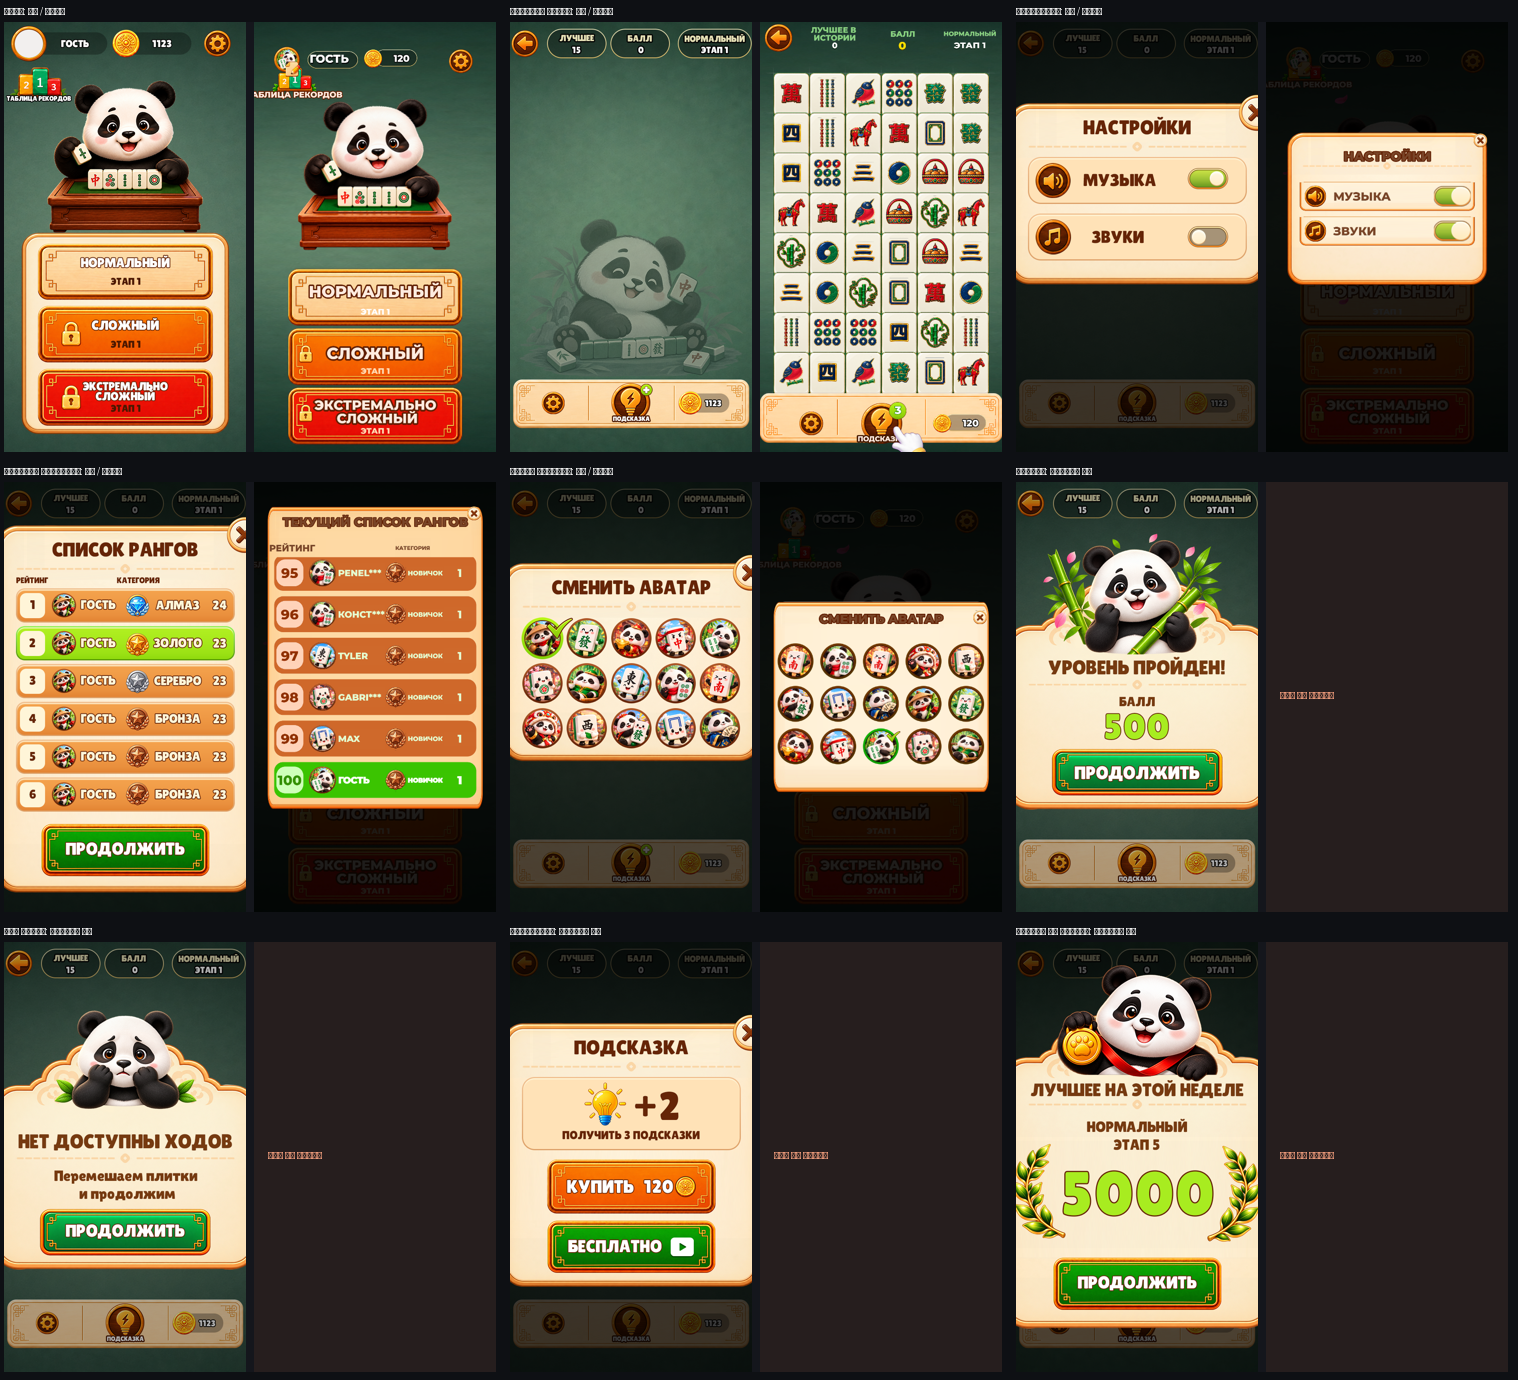
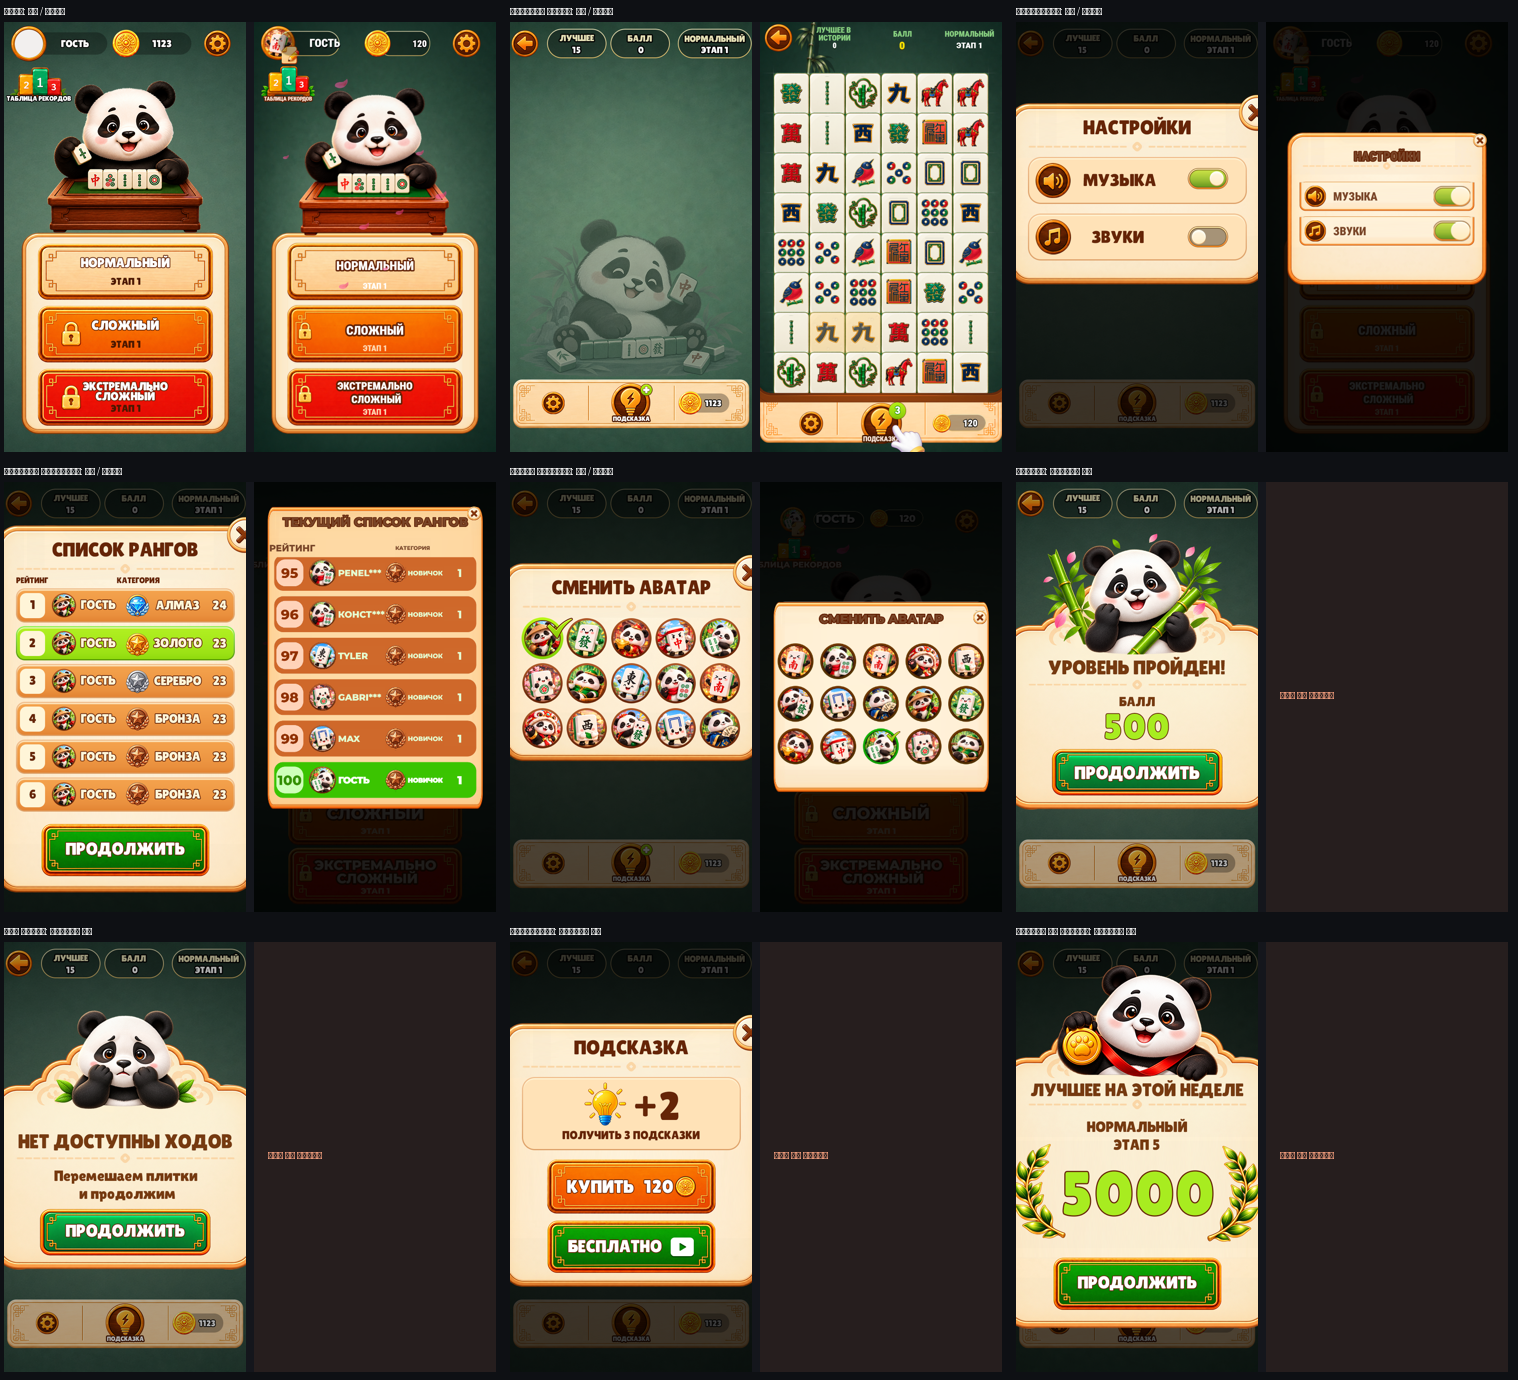
Menu matched to the mockup and verified in the running game
Chrome DevTools could not attach to the owner's browser, so the game is now
driven through a Chrome of our own (tools/shoot.py, Playwright, its own profile
and a 9:16 window so the canvas is exactly the 1080x1920 the layout is written
against). Every screenshot on the page is that browser.

The HUD row, the leaderboard icon and the three buttons were placed from
measurements of her mockup rather than by eye, and tools/menu_diff.py now
measures both pictures the same way: panel, buttons, panda, leaderboard and gear
agree within ten design pixels.

The font was chosen by measurement too. At her cap height her caption is 292
design pixels wide; Roboto Condensed Black gives 289, the Montserrat ExtraBold
shipped before gave 377. Roboto Condensed is SIL OFL and has Cyrillic.

diff --git a/index.html b/index.html
@@ -60,8 +60,8 @@
 <img src="sheets/pair_menu.png" alt="Меню">
 <p class="muted">слева макет Ани, справа игра</p>
 <div class="notes">
-  <div class="note have"><b>Уже её</b>Сукно, панда со столиком, кнопки, монета и её плашка, шестерня, рамка аватара, плашка под именем, иконка рекордов, а теперь и большая кремовая панель под тремя кнопками - она вырезана из её же макета.</div>
-  <div class="note need"><b>Чего не хватает</b>Ничего из картинок. Осталась расстановка: снимок справа сделан до пересчёта координат, как будет после - в следующем разделе. Шрифт не её: буквы рисует движок.</div>
+  <div class="note have"><b>Уже её</b>Всё. Сукно, панда со столиком, кнопки, монета и её плашки, шестерня, рамка аватара, иконка рекордов и большая кремовая панель под тремя кнопками, вырезанная из её же макета.</div>
+  <div class="note need"><b>Чего не хватает</b>Ничего. Расстановка пересчитана по её макету и сходится с ним в пределах десяти точек, шрифт заменён на сжатый. Отличается только то, что в игре живое: имя игрока, число монет, аватарка и падающие лепестки.</div>
 </div>
 </div>
 <div class="card">
@@ -100,7 +100,7 @@
   <div class="note need"><b>Чего не хватает</b>Ничего.</div>
 </div>
 </div>
-<h2>Меню: панель вырезана из её макета, координаты пересчитаны</h2>
+<h2>Меню: сведено с её макетом</h2>
 <p>Кремовой панели под тремя кнопками у неё не было отдельным файлом, поэтому она вырезана прямо
 из макета меню: взяты её углы и края, а середина заменена ровной кремовой заливкой её же цвета.
 Движок растягивает только середину, так что в игре панель любого размера, а рисунок рамки остаётся
@@ -109,9 +109,23 @@
 обои 1920x1080, внутри которых портретный экран стоит колонкой той же высоты, то есть шириной
 1080*9/16 = 607.5 точки. Значит одна точка макета это 1.7778 точки игры, и каждая коробка
 переводится арифметикой. Панель 930x903, кнопки 780x253 с шагом 280.</p>
-<img src="shots/menu_vs_mockup.png" alt="макет Ани и пересчитанное меню">
-<p class="muted">Слева макет Ани, справа <b>не скриншот</b>, а сборка из тех же картинок по новым
-координатам: это проверка чисел, а не игры. Живой экран снимем, когда освободится браузер.</p>
+<p>Шрифт тоже выбран меркой, а не на глаз. Её надпись «СЛОЖНЫЙ» шириной 292 точки при высоте
+заглавной 45. При той же высоте заглавной Roboto Condensed Black даёт 289, Fira Sans Condensed
+ExtraBold 285, Oswald 248, Anton 182, а стоявший до этого Montserrat ExtraBold 377. Взят Roboto
+Condensed Black, лицензия SIL OFL, кириллица есть.</p>
+<img src="shots/menu_pair_live.png" alt="макет Ани и живой экран игры">
+<p class="muted">Слева макет Ани, справа живой снимок игры. Что сходится по меркам:</p>
+<pre style="overflow-x:auto; background:#0f1116; padding:12px 14px; border-radius:8px; font-size:13px">элемент    у Ани                      у нас                      сдвиг / размер
+панель      880x866  в ( 540,1381)    880x866  в ( 540,1379)   dx   +0 dy   -2  dw   +0 dh   +0
+кнопка 1    838x178  в ( 539,1039)    838x178  в ( 539,1039)   dx   +0 dy   +0  dw   +0 dh   +0
+кнопка 2    778x188  в ( 541,1324)    780x188  в ( 540,1324)   dx   -1 dy   +0  dw   +2 dh   +0
+кнопка 3    778x150  в ( 541,1623)    780x150  в ( 540,1623)   dx   -1 dy   +0  dw   +2 dh   +0
+панда       736x698  в ( 518, 579)    718x698  в ( 509, 579)   dx   -9 dy   +0  dw  -18 dh   +0
+рекорды     318x174  в ( 169, 291)    294x198  в ( 181, 279)   dx  +12 dy  -12  dw  -24 dh  +24
+шестерня    118x116  в ( 951,  96)    122x122  в ( 949,  95)   dx   -2 dy   -1  dw   +4 dh   +6
+</pre>
+<p class="muted">Отличается только живое: имя игрока, число монет, нарисованная аватарка вместо
+пустого кружка на макете и падающие лепестки, которых на статичной картинке быть не может.</p>
 
 <h2>Экраны, которые ещё не сняты</h2>
 <p>Эти окна в игре есть, но чтобы их снять, надо доиграть уровень до конца или потратить подсказки.
